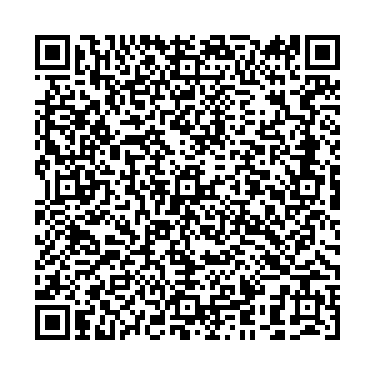
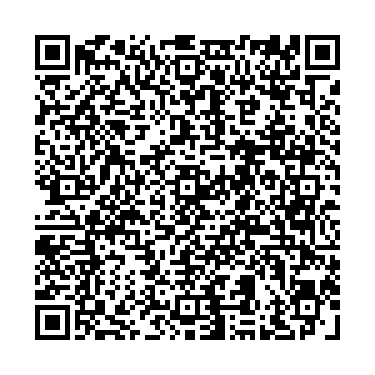
whatsapp group

Changed region(s): [[0.088, 0.088, 0.9093, 0.9093]]

diff --git a/app.js b/app.js
@@ -15,9 +15,14 @@ const flowInfo = addKeyword(['1', 'catalogo', 'informacion', 'info'])
     .addAnswer([
     'Contamos con SISTEMA DE APARTADO de 1 mes con un monto mínimo de ₡2.000🛍',
     '\nNos puedes consultar sin ningún compromiso por este medio o nuestro Instagram @sharefashionn',
-    '\nEscribe *Menu* para regresar al menu inicial'
 
-    ]);
+
+    ])
+    .addAnswer([
+        'Puedes unirte a nuestro grupo en WhatsApp y ser la primera en darte cuenta de las nuevas colecciones; ofertas y más🛍',
+        'Ingresa aquí➡ https://chat.whatsapp.com/GpgVBZkgKkDC1uDGc39E6L',
+        '\nEscribe *Menu* para regresar al menu inicial'
+        ]);
 
 
 
